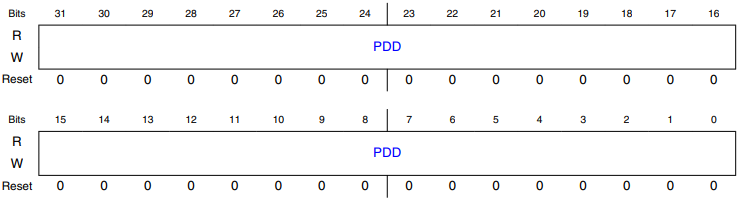
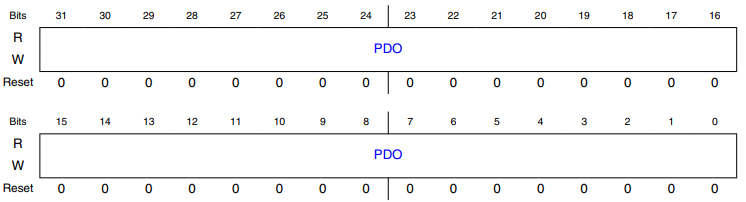
Add 13.3.1 GPIO register descriptions

diff --git a/13-general-purpose-input-output-gpio.md b/13-general-purpose-input-output-gpio.md
@@ -26,13 +26,13 @@
 
 > ##### Table 13-1. GPIO ports memory map
 >
-|Start address|Port|
-|-|-|
-|Base + 0h|Port A|
-|Base + 40h|Port B|
-|Base + 80h|Port C|
-|Base + C0h|Port D|
-|Base + 100h|Port E|
+> |Start address|Port|
+> |-|-|
+> |Base + 0h|Port A|
+> |Base + 40h|Port B|
+> |Base + 80h|Port C|
+> |Base + C0h|Port D|
+> |Base + 100h|Port E|
 
 > ##### Note
 >
@@ -174,7 +174,171 @@
 
 |Offset|Register|Width (in bits)|Access|Reset value|
 |-|-|-|-|-|
+|0h|Port Data Output Register (PDOR)|32|RW|0000_0000h|
+|4h|Port Set Output Register (PSOR)|32|WORZ|0000_000h|
+|8h|Port Clear Output Register (PCOR)|32|WORZ|0000_000h|
+|Ch|Port Toggle Output Register (PTOR)|32|WORZ|0000_000h|
+|10h|Port Data Input Register (PDIR)|32|RO|0000_0000h|
 |14h|Port Data Direction Register (PDDR)|32|RW|0000_0000h|
+|18h|Port Input Disable Register (PIDR)|32|RW|0000_0000h|
+
+#### 13.3.1.2 Port Data Output Register (PDOR)
+
+##### 13.3.1.2.1 Offset
+
+|Register|Offset|
+|-|-|
+|PDOR|0h|
+
+##### 13.3.1.2.2 Function
+
+- This register configures the logic levels that are driven on each general-purpose output pin.
+
+> ##### NOTE
+>
+> - Do not modify pin configuration registers associated with pins not available in your selected package.
+>
+> - All unbonded pins not available in your package will default to DISABLE state for lowest power consumption.
+
+##### 13.3.1.2.3 Diagram
+
+![figure-13-1](images/figure-13-1.png)
+
+##### 13.3.1.2.4 Fields
+
+###### 31-0 PDO
+
+- Port Data Output
+
+- Register bits for unbonded pins return an undefined value when read.
+
+- 0b - Logic level 0 is driven on pin, provided pin is configured for general-purpose output.
+
+- 1b - Logic level 1 is driven on pin, provided pin is configured for general-purpose output.
+
+#### 13.3.1.3 Port Set Output Register (PSOR)
+
+##### 13.3.1.3.1 Offset
+
+|Register|Offset|
+|-|-|
+|PSOR|4h|
+
+##### 13.3.1.3.2 Function
+
+- This register configures whether to set the fields of the PDOR.
+
+##### 13.3.1.3.3 Diagram
+
+![figure-13-2](images/figure-13-2.png)
+
+##### 13.3.1.3.4 Fields
+
+###### 31-0 PTSO
+
+- Port Set Output
+
+- Writing to this register updates the contents of the corresponding bit in the PDOR as follows:
+
+    - 0b - Corresponding bit in PDORn does not change.
+
+    - 1b - Corresponding bit in PDORn is set to logic 1.
+
+#### 13.3.1.4 Port Clear Output Register (PCOR)
+
+##### 13.3.1.4.1 Offset
+
+|Register|Offset|
+|-|-|
+|PCOR|8h|
+
+##### 13.3.1.4.2 Function
+
+- This register configures whether to clear the fields of PDOR.
+
+##### 13.3.1.4.3 Diagram
+
+![figure-13-3](images/figure-13-3.png)
+
+##### 13.3.1.4.4 Field
+
+###### 31-0 PTCO
+
+- Port Clear Output
+
+- Writing to this register updates the contents of the corresponding bit in the Port Data Output Register (PDOR) as follows:
+
+    - 0b - Corresponding bit in PDORn does not change.
+
+    - 1b - Corresponding bit in PDORn is cleared to logic 0.
+
+#### 13.3.1.5 Port Toggle Output Register (PTOR)
+
+##### 13.3.1.5.1 Offset
+
+|Register|Offset|
+|-|-|
+|PTOR|Ch|
+
+##### 13.3.1.5.2 Function
+
+- This register toggles the logic levels that are driven on each general-purpose output pin.
+
+##### 13.3.1.5.3 Diagram
+
+> ![figure-13-4](images/figure-13-4.png)
+
+##### 13.3.1.5.4 Fields
+
+###### 31-0 PTTO
+
+- Port Toggle Output
+
+- Writing to this register updates the contents of the corresponding bit in the PDOR as follows:
+
+    - 0b - Corresponding bit in PDORn does not change.
+
+    - 1b - Corresponding bit in PDORn is set to the inverse of its existing logic state.
+
+#### 13.3.1.6 Port Data Input Register (PDIR)
+
+##### 13.3.1.6.1 Offset
+
+|Register|Offset|
+|-|-|
+|PDIR|10h|
+
+##### 13.3.1.6.2 Function
+
+- This register captures the logic levels that are driven into each general-purpose input pin.
+
+> ##### NOTE
+>
+> - Do not modify pin configuration registers associated with pins not available in your selected package.
+>
+> - All unbonded pins not available in your package will default to DISABLE state for lowest power consumption.
+
+##### 13.3.1.6.3 Diagram
+
+![figure-13-5](images/figure-13-5.png)
+
+##### 13.3.1.6.4 Fields
+
+###### 31-0 PDI
+
+- Port Input Data
+
+- Reads 0 at the unimplemented pins for a particular device.
+
+- Pins that are not configured for a digital function read 0.
+
+- If the Port Control and Interrupt module is disabled, then the corresponding bit in PDIR does not update.
+
+- 0b - Pin logic level is logic 0, or is not configured for use by digital function.
+
+- 1b - Pin logic level is logic 1.
+
+##### 13.3.1.5.1 Offset
 
 #### 13.3.1.7 Port Data Direction Register (PDDR)
 
@@ -184,7 +348,7 @@
 |-|-|
 |PDDR|14h|
 
-##### 13.3.1.7.1 Function
+##### 13.3.1.7.2 Function
 
 - The PDDR configures the individual port pins for input or output.
 
@@ -192,7 +356,7 @@
 
 ![figure-13-1](images/figure-13-1.png)
 
-##### Fields
+##### 13.3.1.7.4 Fields
 
 ###### 31-0 PDD
 

diff --git a/12-port-control-and-interrupts-port.md b/12-port-control-and-interrupts-port.md
@@ -232,7 +232,7 @@ implemented on a specific device.
 >
 > - Unbonded pins not available in a package are disabled by default to prevent them from consuming power.
 
-- Adress: 0h base + 0h offset + (4d * i), where i = 0d to 31d
+- Address: 0h base + 0h offset + (4d * i), where i = 0d to 31d
 
 ![figure-12-1](images/figure-12-1.png)
 
